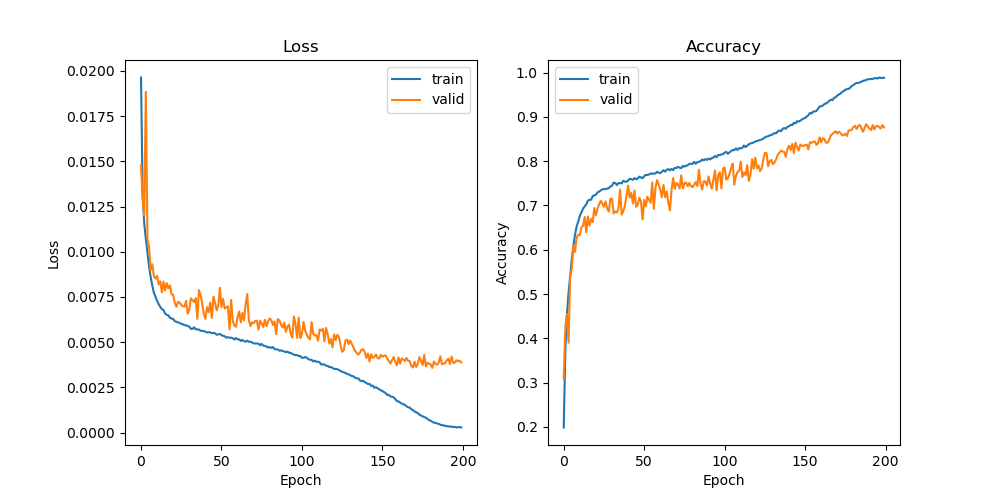
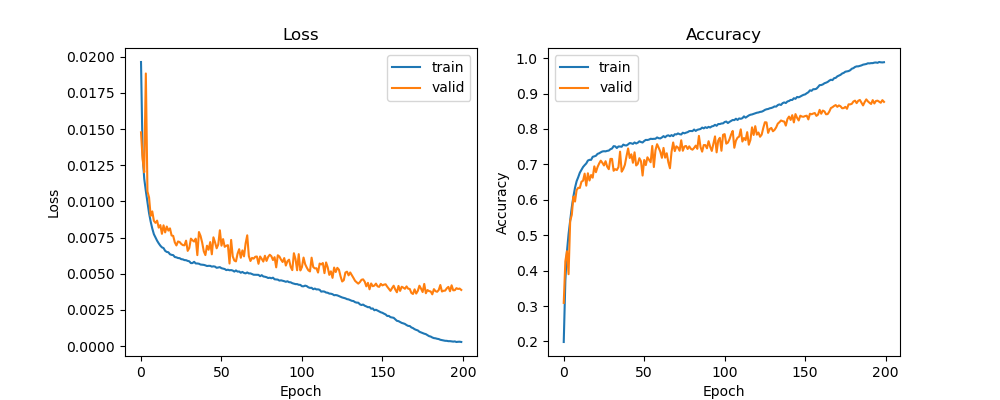
plot size

diff --git a/plot.py b/plot.py
@@ -28,7 +28,7 @@ def plot_loss_acc(json_file_path):
     train_loss = [float(i) / train_sample_num for i in train_loss]
     valid_loss = [float(i) / valid_sample_num for i in valid_loss]
 
-    plt.figure(figsize=(10, 5))
+    plt.figure(figsize=(10, 4))
     plt.subplot(121)
     plt.plot(train_loss, label='train')
     plt.plot(valid_loss, label='valid')
